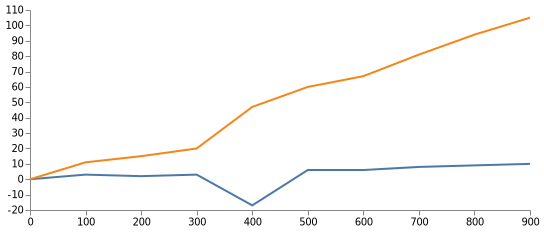
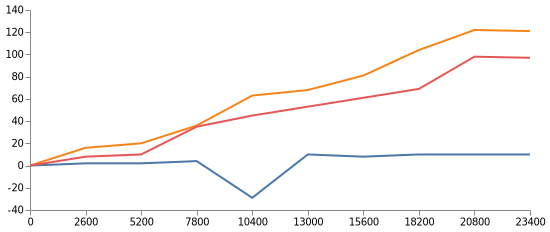
Added delete, both to implementation and performance tests

diff --git a/__tests__/main.spec.js b/__tests__/main.spec.js
@@ -11,8 +11,8 @@ const { plot } = require('../visualize');
 const TEST_KEY = Symbol('test-key');
 
 const performanceTester = {
-  proxy: { setting: [], getting: [] },
-  object: { setting: [], getting: [] },
+  proxy: { setting: [], getting: [], deleting: [] },
+  object: { setting: [], getting: [], deleting: [] },
   start: undefined,
   timer(type, action) {
     if (!this.start) {
@@ -32,7 +32,11 @@ const performanceTester = {
     this.proxy.getting.forEach((el, i) =>
       gettingStats.push(Math.floor(el - this.object.getting[i])),
     );
-    return { gettingStats, settingStats };
+    const deletingStats = [];
+    this.proxy.deleting.forEach((el, i) =>
+      deletingStats.push(Math.floor(el - this.object.deleting[i])),
+    );
+    return { gettingStats, settingStats, deletingStats };
   },
 };
 
@@ -112,7 +116,7 @@ describe('deepProxy', () => {
     expect(state.b).toEqual(3);
     expect(state.c).toEqual(4);
   });
-  it.skip('Performance test', () => {
+  it('Performance test', () => {
     const loopsCases = Array(10)
       .fill(undefined)
       .map((el, i) => i * 100);
@@ -135,6 +139,15 @@ describe('deepProxy', () => {
         }
       }
       performanceTester.timer('proxy', 'getting');
+      performanceTester.timer();
+      for (const letter of 'qwertyuiopasdfghjklzxcvbnm'.split('').sort()) {
+        for (let i = 1; i <= loops; i++) {
+          const key = `${letter}${i}`;
+          delete state[key].b;
+          delete state[key];
+        }
+      }
+      performanceTester.timer('proxy', 'deleting');
       const obj = {};
       performanceTester.timer();
       for (const letter of 'qwertyuiopasdfghjklzxcvbnm'.split('').sort()) {
@@ -154,12 +167,38 @@ describe('deepProxy', () => {
         }
       }
       performanceTester.timer('object', 'getting');
+      performanceTester.timer();
+      for (const letter of 'qwertyuiopasdfghjklzxcvbnm'.split('').sort()) {
+        for (let i = 1; i <= loops; i++) {
+          const key = `${letter}${i}`;
+          delete obj[key].b;
+          delete obj[key];
+        }
+      }
+      performanceTester.timer('object', 'deleting');
     }
-    const { gettingStats, settingStats } = performanceTester.getResult();
+    const {
+      gettingStats,
+      settingStats,
+      deletingStats,
+    } = performanceTester.getResult();
     plot(
       [
-        ...gettingStats.map((el, i) => ({ x: loopsCases[i], y: el, c: 0 })),
-        ...settingStats.map((el, i) => ({ x: loopsCases[i], y: el, c: 1 })),
+        ...gettingStats.map((el, i) => ({
+          x: loopsCases[i] * 26,
+          y: el,
+          c: 0,
+        })),
+        ...settingStats.map((el, i) => ({
+          x: loopsCases[i] * 26,
+          y: el,
+          c: 1,
+        })),
+        ...deletingStats.map((el, i) => ({
+          x: loopsCases[i] * 26,
+          y: el,
+          c: 2,
+        })),
       ],
       config.history ? 'withHistory' : 'withoutHistory',
     );

diff --git a/src/main.ts b/src/main.ts
@@ -24,8 +24,8 @@ interface DeepProxyConfig {
     path: Path,
     internalGlobalState: object,
   ) => any;
-  onSet?: () => any;
-  onDelete?: () => any;
+  onSet?: (target, key, value, path, internalGlobalState) => any;
+  onDelete?: (target, key, path, internalGlobalState) => any;
 }
 
 const attachDefaultGlobalKeys = (globalKeys: GlobalKeys) => {
@@ -40,8 +40,16 @@ const getProxyObject = ({
   globalState,
   internalGlobalState,
   onGet = () => {},
-  onSet = () => {},
-  onDelete = () => {},
+  onSet = (target, key, value, path, internalGlobalState) => {
+    let a = [target, key, value, path, internalGlobalState];
+    a = [];
+    return Number(a) + 2;
+  },
+  onDelete = (target, key, path, internalGlobalState) => {
+    let a = [target, key, path, internalGlobalState];
+    a = [];
+    return Number(a) + 2;
+  },
   path,
 }: DeepProxyConfig & {
   path: Path;
@@ -98,6 +106,30 @@ const getProxyObject = ({
         }
       }
       target[key] = value;
+      // TODO: This should be handled differently
+      internalGlobalState[QUICK_CHANGE] = true;
+      setOnAllPathLevels(internalGlobalState.rootTarget, path);
+      internalGlobalState[QUICK_CHANGE] = false;
+      onSet(target, key, value, path, internalGlobalState);
+      return true;
+    },
+    deleteProperty(target: object, key: string) {
+      if (internalGlobalState[QUICK_CHANGE]) {
+        delete target[key];
+      }
+      if (internalGlobalState.history) {
+        const changeDescription: ChangeDescription = {
+          path: path.concat(key),
+          oldValue: target[key],
+          // TODO: This should be handled differently
+          newValue: undefined,
+        };
+        if (!internalGlobalState.skipHistoryUpdate) {
+          historyObj.history.push(changeDescription);
+        }
+      }
+      delete target[key];
+      // TODO: This should be handled differently
       internalGlobalState[QUICK_CHANGE] = true;
       setOnAllPathLevels(internalGlobalState.rootTarget, path);
       internalGlobalState[QUICK_CHANGE] = false;

diff --git a/README.md b/README.md
@@ -10,7 +10,7 @@ This is an implementation of deep proxy with a twist. Unlike the most popular de
 
 ### Performance issues
 
-This is a graph showing the difference in milliseconds (y axis) needed to perform various number (x axis) of sets and gets (orange and blue respectively) between an object created with this package and a regular one.
+This is a graph showing the difference in milliseconds (y axis) needed to perform various number (x axis) of sets, gets and deletes (orange, blue and red, respectively) between an object created with this package and a regular one.
 
 ![withHistory](withHistory.png 'With History')
 
